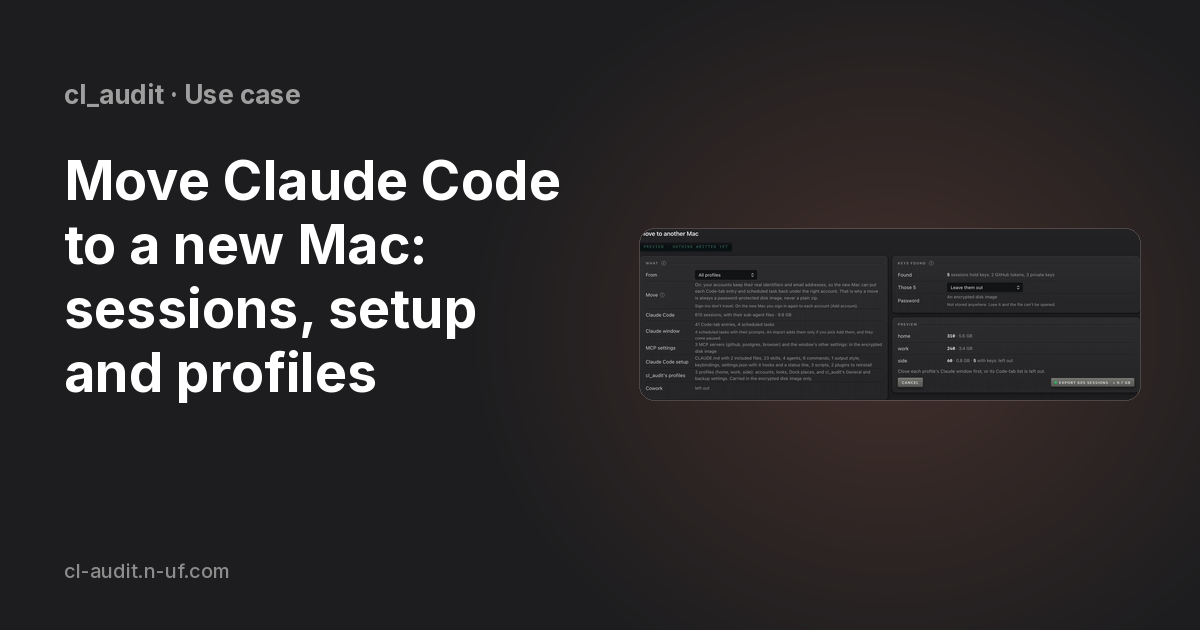
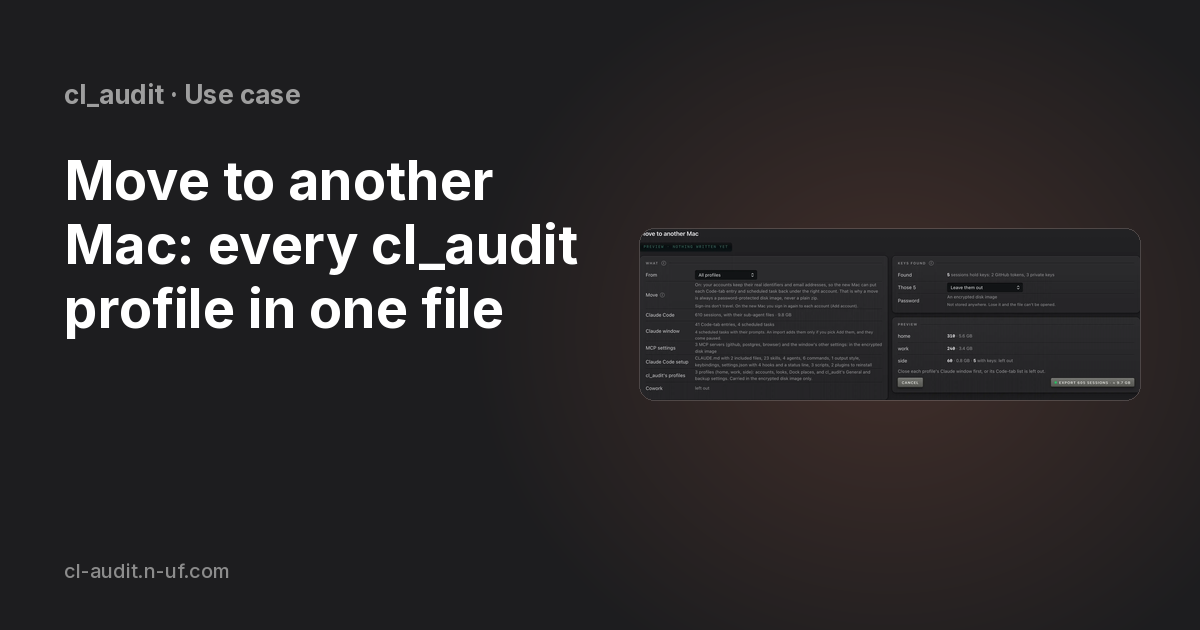
use case: product wording, /use-cases/move-to-another-mac/ (leaves 'move claude code to new computer' to the SEO article)

Changed region(s): [[0.0308, 0.2413, 0.4933, 0.6333]]

diff --git a/src/content/use-cases/move-to-another-mac.md b/src/content/use-cases/move-to-another-mac.md
@@ -1,8 +1,8 @@
 ---
-title: "Move Claude Code to a new Mac, with every profile"
-description: "Move Claude Code to a new Mac with cl_audit: sessions, setup, MCP settings, scheduled tasks and profiles in one encrypted file. Sign-ins stay behind."
-h1: "Move Claude Code to a new Mac: sessions, setup and profiles"
-mainKeyword: "move claude code to new mac"
+title: "cl_audit: Move to another Mac, with every profile"
+description: "cl_audit's Move to another Mac puts every profile, its sessions, Claude Code's setup, MCP settings and scheduled tasks in one encrypted file."
+h1: "Move to another Mac: every cl_audit profile in one file"
+mainKeyword: "cl_audit move to another mac"
 kind: use-case
 published: 2026-11-09
 updated: 2026-11-09
@@ -15,7 +15,7 @@ takeaways:
   - "The import only adds what is missing. A profile, a settings.json, MCP settings or a task file that is already on the new Mac stays as it is, and Undo takes the import back in two steps."
   - "Both Macs need cl_audit 26.11.10 or later: 26.11.9 and older can't open a move file."
 faq:
-  - q: "Can I move Claude Code to a new Mac without signing in again?"
+  - q: "Does Move to another Mac carry my sign-ins?"
     a: "No. Sign-ins never travel, neither Claude Code's nor the Claude window's, and cl_audit never reads the Keychain. After the import, sign in to each account with Settings ▸ the profile ▸ Claude Code ▸ Accounts ▸ Add account."
   - q: "Will my scheduled tasks run twice after the move?"
     a: "No. They come with their prompts but arrive paused, so nothing runs on both Macs. Turn each one on in the profile's Claude window, under Scheduled tasks, once that profile is signed in."
@@ -52,7 +52,7 @@ related:
   - /install/
 ---
 
-To move Claude Code to a new Mac with everything around it, export from cl_audit on the old Mac with **Move to another Mac**, copy the one file across, and import it on the new Mac. The file is a password-protected disk image with every profile's sessions, Claude Code's setup, the Claude window's MCP settings and scheduled tasks, and cl_audit's own profiles and settings. Sign-ins stay behind: you sign in to each account again on the new Mac. cl_audit, a free [Claude usage tracker for Mac](/), is an independent tool, not affiliated with Anthropic.
+**Move to another Mac** is how cl_audit takes everything to a new Mac: export with it on the old Mac, copy the one file across, and import it on the new Mac. The file is a password-protected disk image with every profile's sessions, Claude Code's setup, the Claude window's MCP settings and scheduled tasks, and cl_audit's own profiles and settings. Sign-ins stay behind: you sign in to each account again on the new Mac. cl_audit, a free [Claude usage tracker for Mac](/), is an independent tool, not affiliated with Anthropic.
 
 The examples below use the site's sample profiles: **home** on `~/.claude`, **work** with three Team accounts, and **side**. The names and addresses are made up.
 
@@ -94,7 +94,7 @@ Export the profiles as they are now, not from a backup. Backups keep neither the
 
 ![The import of a move after Make 2 profiles](/img/guides/move-import.webp "The site's demo of the import on the new Mac: work and side made, with the next steps for each. Sample data.")
 
-The [settings demo](/settings/) has both pages to click through: Export… then Move to another Mac, and Import… with "a move from another Mac" as the file. Nothing on your Mac changes there.
+The [settings demo](/settings/#move-to-another-mac) opens on the first page; to click through both, it's Export… then Move to another Mac, and Import… with "a move from another Mac" as the file. Nothing on your Mac changes there.
 
 ## After the import: sign in, the Dock, scheduled tasks
 
@@ -116,7 +116,7 @@ Undo is two steps. **Undo this import** on the done page takes back the sessions
 
 A move file, or any export with cl_audit's profiles in it, can't be opened by 26.11.9 or older. Those versions say the file is from a newer cl_audit. Every other export still opens there.
 
-## Moving Claude Code without cl_audit
+## Without cl_audit
 
 Claude Code keeps its transcripts as files, so you can copy them to another Mac yourself, with the projects at the same paths. A plain copy doesn't bring the Claude window's Code-tab list, its scheduled tasks or the way it files them by account. {{live:/blog/export-claude-code-sessions/}}[How to export Claude Code sessions](/blog/export-claude-code-sessions/) walks through the manual copy and `/export`.{{/live}}
 

diff --git a/src/content/blog/export-claude-code-sessions.md b/src/content/blog/export-claude-code-sessions.md
@@ -249,7 +249,7 @@ Users have asked Anthropic for a built-in transfer on Claude Code's issue tracke
 
 ## Export… and Import… in cl_audit
 
-With cl_audit on both Macs, a profile's sessions can also travel as one file. Since 26.11.8 the file carries Claude Code's setup too: `CLAUDE.md` and the files it includes, skills, agents, commands, output styles, keybindings, `settings.json` with the scripts its hooks run, and the list of installed plugins. Since 26.11.9 it also carries the Claude window's MCP settings (encrypted disk image only) and scheduled tasks with their prompts. Use 26.11.9 on both Macs: 26.11.8 and older can't open an export that holds MCP settings or a task's prompt. To take everything at once, cl_audit's own profiles included, 26.11.10 adds **Move to another Mac**; [moving Claude Code to a new Mac](/use-cases/move-claude-code-to-new-mac/) walks through both Macs.
+With cl_audit on both Macs, a profile's sessions can also travel as one file. Since 26.11.8 the file carries Claude Code's setup too: `CLAUDE.md` and the files it includes, skills, agents, commands, output styles, keybindings, `settings.json` with the scripts its hooks run, and the list of installed plugins. Since 26.11.9 it also carries the Claude window's MCP settings (encrypted disk image only) and scheduled tasks with their prompts. Use 26.11.9 on both Macs: 26.11.8 and older can't open an export that holds MCP settings or a task's prompt. To take everything at once, cl_audit's own profiles included, 26.11.10 adds **Move to another Mac**; [cl_audit's Move to another Mac](/use-cases/move-to-another-mac/) walks through both Macs.
 
 In Settings ▸ the profile ▸ Sessions, **Export…** opens a page that starts as a preview ("Preview · nothing written yet"). You choose the profile as it is now, one of its backups, or all profiles. Sessions that hold keys (tokens, private keys) are counted by kind and left out by default. **Keep them: needs a password** keeps them, and the file becomes an AES-256 encrypted disk image. Without a password it's a zip, which Finder opens. The setup goes in by default, but `settings.json`, its scripts, the plugin marketplaces and the window's MCP settings travel only in the encrypted disk image, as does any skill, agent or command that holds a script a hook runs; a zip leaves them out. Export the profile as it is now rather than from a backup: backups keep neither the MCP settings nor the values under `env` in `settings.json`.
 
